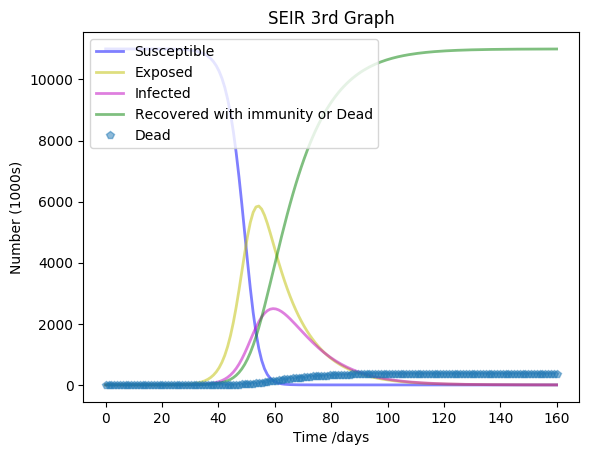
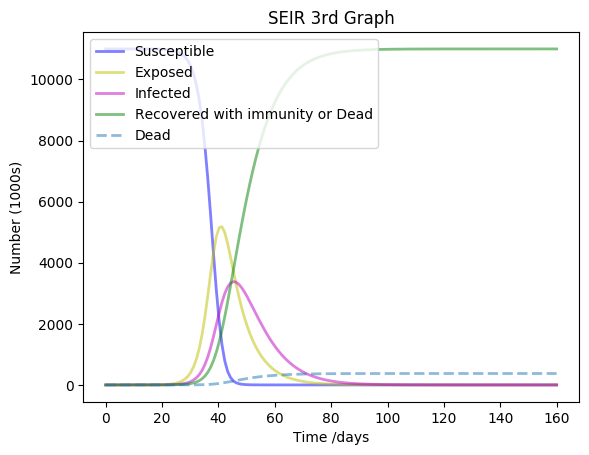
having issues with commit command
added some lsr code for infected

diff --git a/finalcode.py b/finalcode.py
@@ -1,6 +1,8 @@
 import math
 import numpy as np
 from scipy.integrate import odeint
+from scipy.optimize import minimize
+from scipy import integrate
 import matplotlib.pyplot as plt
 '''
 Question 1: Seing How Changing Different Parameters Affects the Day Gap, The height of the I curve
@@ -11,7 +13,7 @@ and the amount of days untill the peak in case
 
 '''
 Part a:
-Using good estimates for the parameters provided by:
+Using good estimates for the parameters provided by a variety of different sources:
 
 '''
 
@@ -24,7 +26,7 @@ R0 =  0
 # Everyone else, S0, is susceptible to infection initially.
 S0 = N - I0 - E0 - R0
 # Contact rate, beta, and mean recovery rate, gamma, (in 1/days). #CHANGE WORDS HERE
-beta, sigma, gamma = 0.78735, 1/7, 0.154 
+beta, sigma, gamma = 0.78735, 1/7, 0.154 # sigma = 1/ average duration
 # A grid of time points (in days)
 t = np.linspace(0, 160, 160)
 
@@ -58,7 +60,7 @@ ax.plot(t, S/1000, 'b', alpha=0.5, lw=2, label='Susceptible')
 ax.plot(t, E/1000, 'y', alpha=0.5, lw=2, label='Exposed')
 ax.plot(t, I/1000, 'm', alpha=0.5, lw=2, label='Infected')
 ax.plot(t, R/1000, 'g', alpha=0.5, lw=2, label='Recovered with immunity or Dead')
-ax.plot(t, Dead1/1000, 'p', alpha=0.5, lw=2, label='Dead')
+ax.plot(t, Dead1/1000, linestyle='--', alpha=0.5, lw=2, label='Dead')
 
 ax.set_xlabel('Time /days')
 ax.set_ylabel('Number (1000s)')
@@ -102,7 +104,7 @@ ax.plot(t, S/1000, 'b', alpha=0.5, lw=2, label='Susceptible')
 ax.plot(t, E/1000, 'y', alpha=0.5, lw=2, label='Exposed')
 ax.plot(t, I/1000, 'm', alpha=0.5, lw=2, label='Infected')
 ax.plot(t, R/1000, 'g', alpha=0.5, lw=2, label='Recovered with immunity or Dead')
-ax.plot(t, Dead2/1000, 'p', alpha=0.5, lw=2, label='Dead')
+ax.plot(t, Dead2/1000, linestyle='--', alpha=0.5, lw=2, label='Dead')
 
 ax.set_xlabel('Time /days')
 ax.set_ylabel('Number (1000s)')
@@ -118,7 +120,7 @@ maxIday2 = Ilist.index(max(I))
 dayGap2 = maxIday2 - maxEday2
 maxDeath2 = max(Dead2)
 maxCases2 = max(I)
-beta, sigma, gamma = 2, 1/12, 0.154
+beta, sigma, gamma = 2, 1/7, 0.154
 # Initial conditions vector
 y0 = S0, E0, I0, R0
 # Integrate the SIR equations over the time grid, t.
@@ -140,7 +142,7 @@ ax.plot(t, S/1000, 'b', alpha=0.5, lw=2, label='Susceptible')
 ax.plot(t, E/1000, 'y', alpha=0.5, lw=2, label='Exposed')
 ax.plot(t, I/1000, 'm', alpha=0.5, lw=2, label='Infected')
 ax.plot(t, R/1000, 'g', alpha=0.5, lw=2, label='Recovered with immunity or Dead')
-ax.plot(t, Dead3/1000, 'p', alpha=0.5, lw=2, label='Dead')
+ax.plot(t, Dead3/1000, linestyle='--', alpha=0.5, lw=2, label='Dead')
 
 ax.set_xlabel('Time /days')
 ax.set_ylabel('Number (1000s)')
@@ -167,7 +169,7 @@ https://www.telegraph.co.uk/news/2020/03/12/coronavirus-kills-average-185-days/
 18.5 days: average time untill death
 https://www.telegraph.co.uk/news/2020/03/12/coronavirus-kills-average-185-days/
 '''
-beta, sigma, gamma = 0.78735, 1/7, 0.154 # sigma = 1/ average duration
+beta, sigma, gamma = 0.78735, 1/12, 0.154 # sigma = 1/ average duration
 # Initial conditions vector
 y0 = S0, E0, I0, R0
 # Integrate the SIR equations over the time grid, t.
@@ -189,7 +191,7 @@ ax.plot(t, S/1000, 'b', alpha=0.5, lw=2, label='Susceptible')
 ax.plot(t, E/1000, 'y', alpha=0.5, lw=2, label='Exposed')
 ax.plot(t, I/1000, 'm', alpha=0.5, lw=2, label='Infected')
 ax.plot(t, R/1000, 'g', alpha=0.5, lw=2, label='Recovered with immunity or Dead')
-ax.plot(t, Dead4/1000, 'p', alpha=0.5, lw=2, label='Dead')
+ax.plot(t, Dead4/1000, linestyle='--', alpha=0.5, lw=2, label='Dead')
 
 ax.set_xlabel('Time /days')
 ax.set_ylabel('Number (1000s)')
@@ -228,7 +230,7 @@ ax.plot(t, S/1000, 'b', alpha=0.5, lw=2, label='Susceptible')
 ax.plot(t, E/1000, 'y', alpha=0.5, lw=2, label='Exposed')
 ax.plot(t, I/1000, 'm', alpha=0.5, lw=2, label='Infected')
 ax.plot(t, R/1000, 'g', alpha=0.5, lw=2, label='Recovered with immunity or Dead')
-ax.plot(t, Dead5/1000, 'p', alpha=0.5, lw=2, label='Dead')
+ax.plot(t, Dead5/1000, linestyle='--', alpha=0.5, lw=2, label='Dead')
 
 ax.set_xlabel('Time /days')
 ax.set_ylabel('Number (1000s)')
@@ -249,7 +251,7 @@ Part d:
 Lowering and increasing gamma based on
 http://jtd.amegroups.com/article/view/36385/html
 '''
-beta, sigma, gamma = 0.78735, 1/7,0.0721
+beta, sigma, gamma = 0.78735, 1/12,0.0721
 # Initial conditions vector
 y0 = S0, E0, I0, R0
 # Integrate the SIR equations over the time grid, t.
@@ -271,7 +273,7 @@ ax.plot(t, S/1000, 'b', alpha=0.5, lw=2, label='Susceptible')
 ax.plot(t, E/1000, 'y', alpha=0.5, lw=2, label='Exposed')
 ax.plot(t, I/1000, 'm', alpha=0.5, lw=2, label='Infected')
 ax.plot(t, R/1000, 'g', alpha=0.5, lw=2, label='Recovered with immunity or Dead')
-ax.plot(t, Dead6/1000, 'p', alpha=0.5, lw=2, label='Dead')
+ax.plot(t, Dead6/1000, linestyle='--', alpha=0.5, lw=2, label='Dead')
 
 ax.set_xlabel('Time /days')
 ax.set_ylabel('Number (1000s)')
@@ -289,7 +291,7 @@ maxCases6 = max(I)
 
 
 
-beta, sigma, gamma = 0.78735, 1/7, 0.238
+beta, sigma, gamma = 0.78735, 1/12, 0.238
 
 # Initial conditions vector
 y0 = S0, E0, I0, R0
@@ -312,7 +314,7 @@ ax.plot(t, S/1000, 'b', alpha=0.5, lw=2, label='Susceptible')
 ax.plot(t, E/1000, 'y', alpha=0.5, lw=2, label='Exposed')
 ax.plot(t, I/1000, 'm', alpha=0.5, lw=2, label='Infected')
 ax.plot(t, R/1000, 'g', alpha=0.5, lw=2, label='Recovered with immunity or Dead')
-ax.plot(t, Dead7/1000, 'p', alpha=0.5, lw=2, label='Dead')
+ax.plot(t, Dead7/1000, linestyle='--', alpha=0.5, lw=2, label='Dead')
 
 ax.set_xlabel('Time /days')
 ax.set_ylabel('Number (1000s)')
@@ -334,8 +336,128 @@ maxCases7 = max(I)
 # secant method to optimize 
 
 
-TrueDeaths = [0,0,0,0, 0,0,0,0,0,0,0,0,0,0,0,0,0,0,0,1,1,2,2,2,3, 3]
-TrueInfected = [1,2,2,2,6,-7,-8,-8,8,8,8,15,15,15,16,16,17,18,19,24,25,30, 31,31,33, 40]
-TrueDays = np.linspace(0, len(TrueDeaths), len(TrueDeaths))
 
+'''
+Question 2:
+Estimating good estimates for the parameters in an SEIR using least squares regression:
 
+'''
+Ddata = [0,0,0,0, 0,0,0,0,0,0,0,0,0,0,0,0,0,0,0,1,1,2,2,2,3,3, 3] # Listing real life deaths
+Idata = [1,2,2,2,6,7, 8,8,8,8,8,15,15,15,16,16,17,18,19,24,25,30, 31,31,33,40, 41] # real life infections
+sdata = [11000000]*len(Ddata)
+for i in range(len(Ddata)):
+    sdata[i] = sdata[i] - Ddata[i] -Idata[i] # real life sucpetible
+tdata = np.linspace(0, len(Ddata), len(Ddata)) # time in days
+
+def fitFunc(sir_values, time, beta, sigma, gamma, k): # making function that has the diff eqs for seir model
+    s = sir_values[0]
+    i = sir_values[1]
+    e = sir_values[2]
+    r = sir_values[3]
+    res = np.zeros((4))
+    res[0] = - beta * s * i/N
+    res[1] = beta * s * i/N - sigma * i
+    res[2] = sigma*e - gamma*i
+    res[3] = gamma * i
+    return res
+
+def lsq(model, tdata, Idata, n):
+    """least squares"""
+    time_total = tdata
+    # original record data
+    data_record = Idata
+    # normalize train data
+    k = 1.0/sum(data_record)
+    # init t = 0 values + normalized
+    I0 = data_record[0]*k
+    S0 = 11000000 - I0
+    R0 = 0 
+    N0 = [S0,E0, I0,R0]
+    # Set initial parameter values
+    param_init = [0.75, 0.75, 0.75]
+    param_init.append(k)
+    # fitting
+    param = minimize(sse(model, N0, time_total, k, data_record, n), param_init, method="nelder-mead").x
+    # get the fitted model
+    Nt = integrate.odeint(model, N0, time_total, args=tuple(param))
+    # scale out
+    Nt = np.divide(Nt, k)
+    # Get the second column of data corresponding to I
+    return Nt[:,2]
+
+def sse(model, N0, time_total, k, data_record, n):
+    """sum of square errors"""
+    def result(x):
+        Nt = integrate.odeint(model, N0, time_total[:n], args=tuple(x))
+        INt = [row[2] for row in Nt]
+        INt = np.divide(INt, k)
+        difference = data_record[:n] - INt
+        # square the difference
+        diff = np.dot(difference, difference)
+        return diff
+    return result
+
+result = lsq(fitFunc, tdata, Idata, len(tdata))
+
+# Plot data and fit
+plt.figure()  # open the figure
+fig,ax = plt.subplots()
+ax.plot(tdata, Idata, "o", label = 'Real Time Data') # plot of real time data
+ax.plot(tdata, result, label = 'Line of Best Fit') # plot line of best fit
+ax.set_xlabel('Time (days)')
+ax.set_ylabel('Number of Infections')
+legend = ax.legend(loc = 'upper left')
+plt.title('LSR Graph for Infections')
+plt.savefig('InfectionsLSR.png', bbox_inches ='tight')
+
+###### Least Squares Regression done to Estimate Line of Best Fit for Susceptible
+##
+##def lsq(model, tdata, sdata, n):
+##    """least squares"""
+##    time_total = tdata
+##    # original record data
+##    data_record = sdata
+##    # normalize train data
+##    k = 1.0/sum(data_record)
+##    # init t = 0 values + normalized
+##    I0 = data_record[0]*k
+##    S0 = 11000000 - I0
+##    R0 = 0 
+##    N0 = [S0,E0, I0,R0]
+##    # Set initial parameter values
+##    param_init = [0.75, 0.75, 0.75]
+##    param_init.append(k)
+##    # fitting
+##    param = minimize(sse(model, N0, time_total, k, data_record, n), param_init, method="nelder-mead").x
+##    # get the fitted model
+##    Nt = integrate.odeint(model, N0, time_total, args=tuple(param))
+##    # scale out
+##    Nt = np.divide(Nt, k)
+##    # Get the second column of data corresponding to S
+##    return Nt[:,0]
+##
+##def sse(model, N0, time_total, k, data_record, n):
+##    """sum of square errors"""
+##    def result(x):
+##        Nt = integrate.odeint(model, N0, time_total[:n], args=tuple(x))
+##        INt = [row[0] for row in Nt]
+##        INt = np.divide(INt, k)
+##        difference = data_record[:n] - INt
+##        # square the difference
+##        diff = np.dot(difference, difference)
+##        return diff
+##    return result
+##
+##result = lsq(fitFunc, tdata, sdata, len(tdata))
+##
+##
+### Plot data and fit
+##plt.figure()  # open the figure
+##fig,ax = plt.subplots()
+##ax.plot(tdata, sdata, "ro", label = 'Real Time Data')
+##ax.plot(tdata, result, label = 'Line of Best Fit')
+##ax.set_xlabel('Time (days)')
+##ax.set_ylabel('Number of Susceptible')
+##legend = ax.legend(loc = 'upper left')
+##plt.title('LSR Graph for Susceptible')
+##plt.savefig('SusceptibleLSR.png', bbox_inches ='tight')
